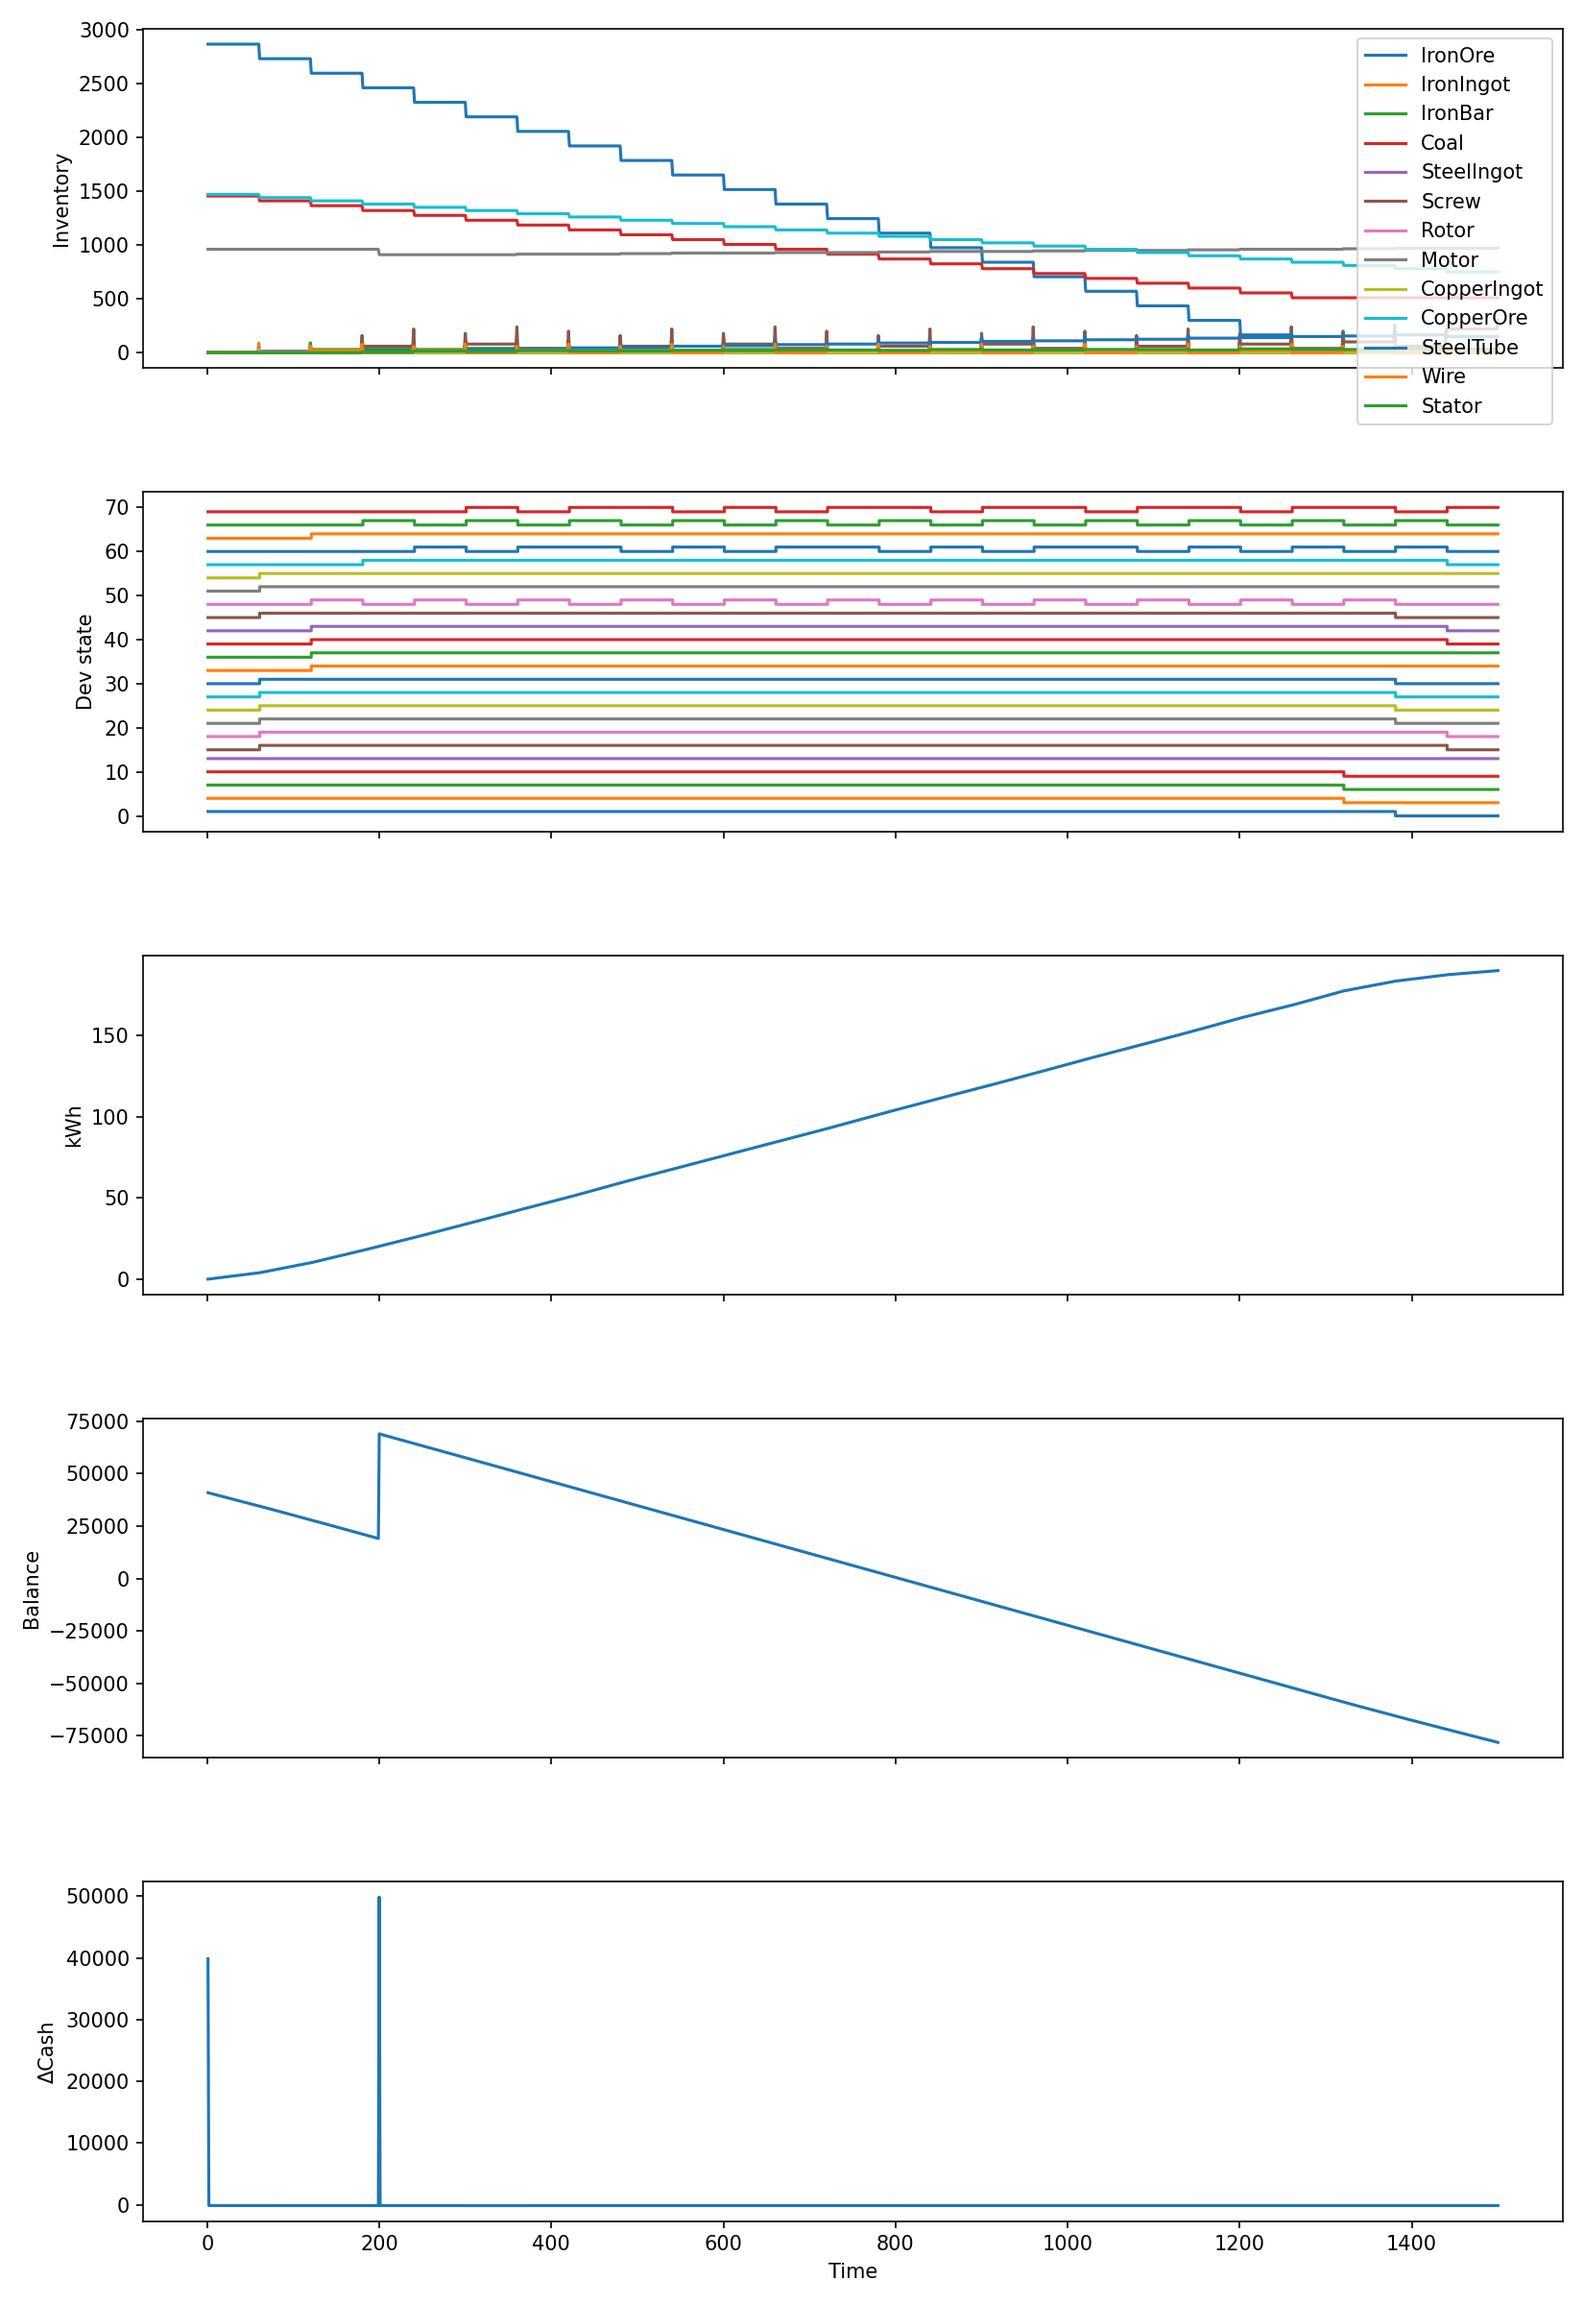
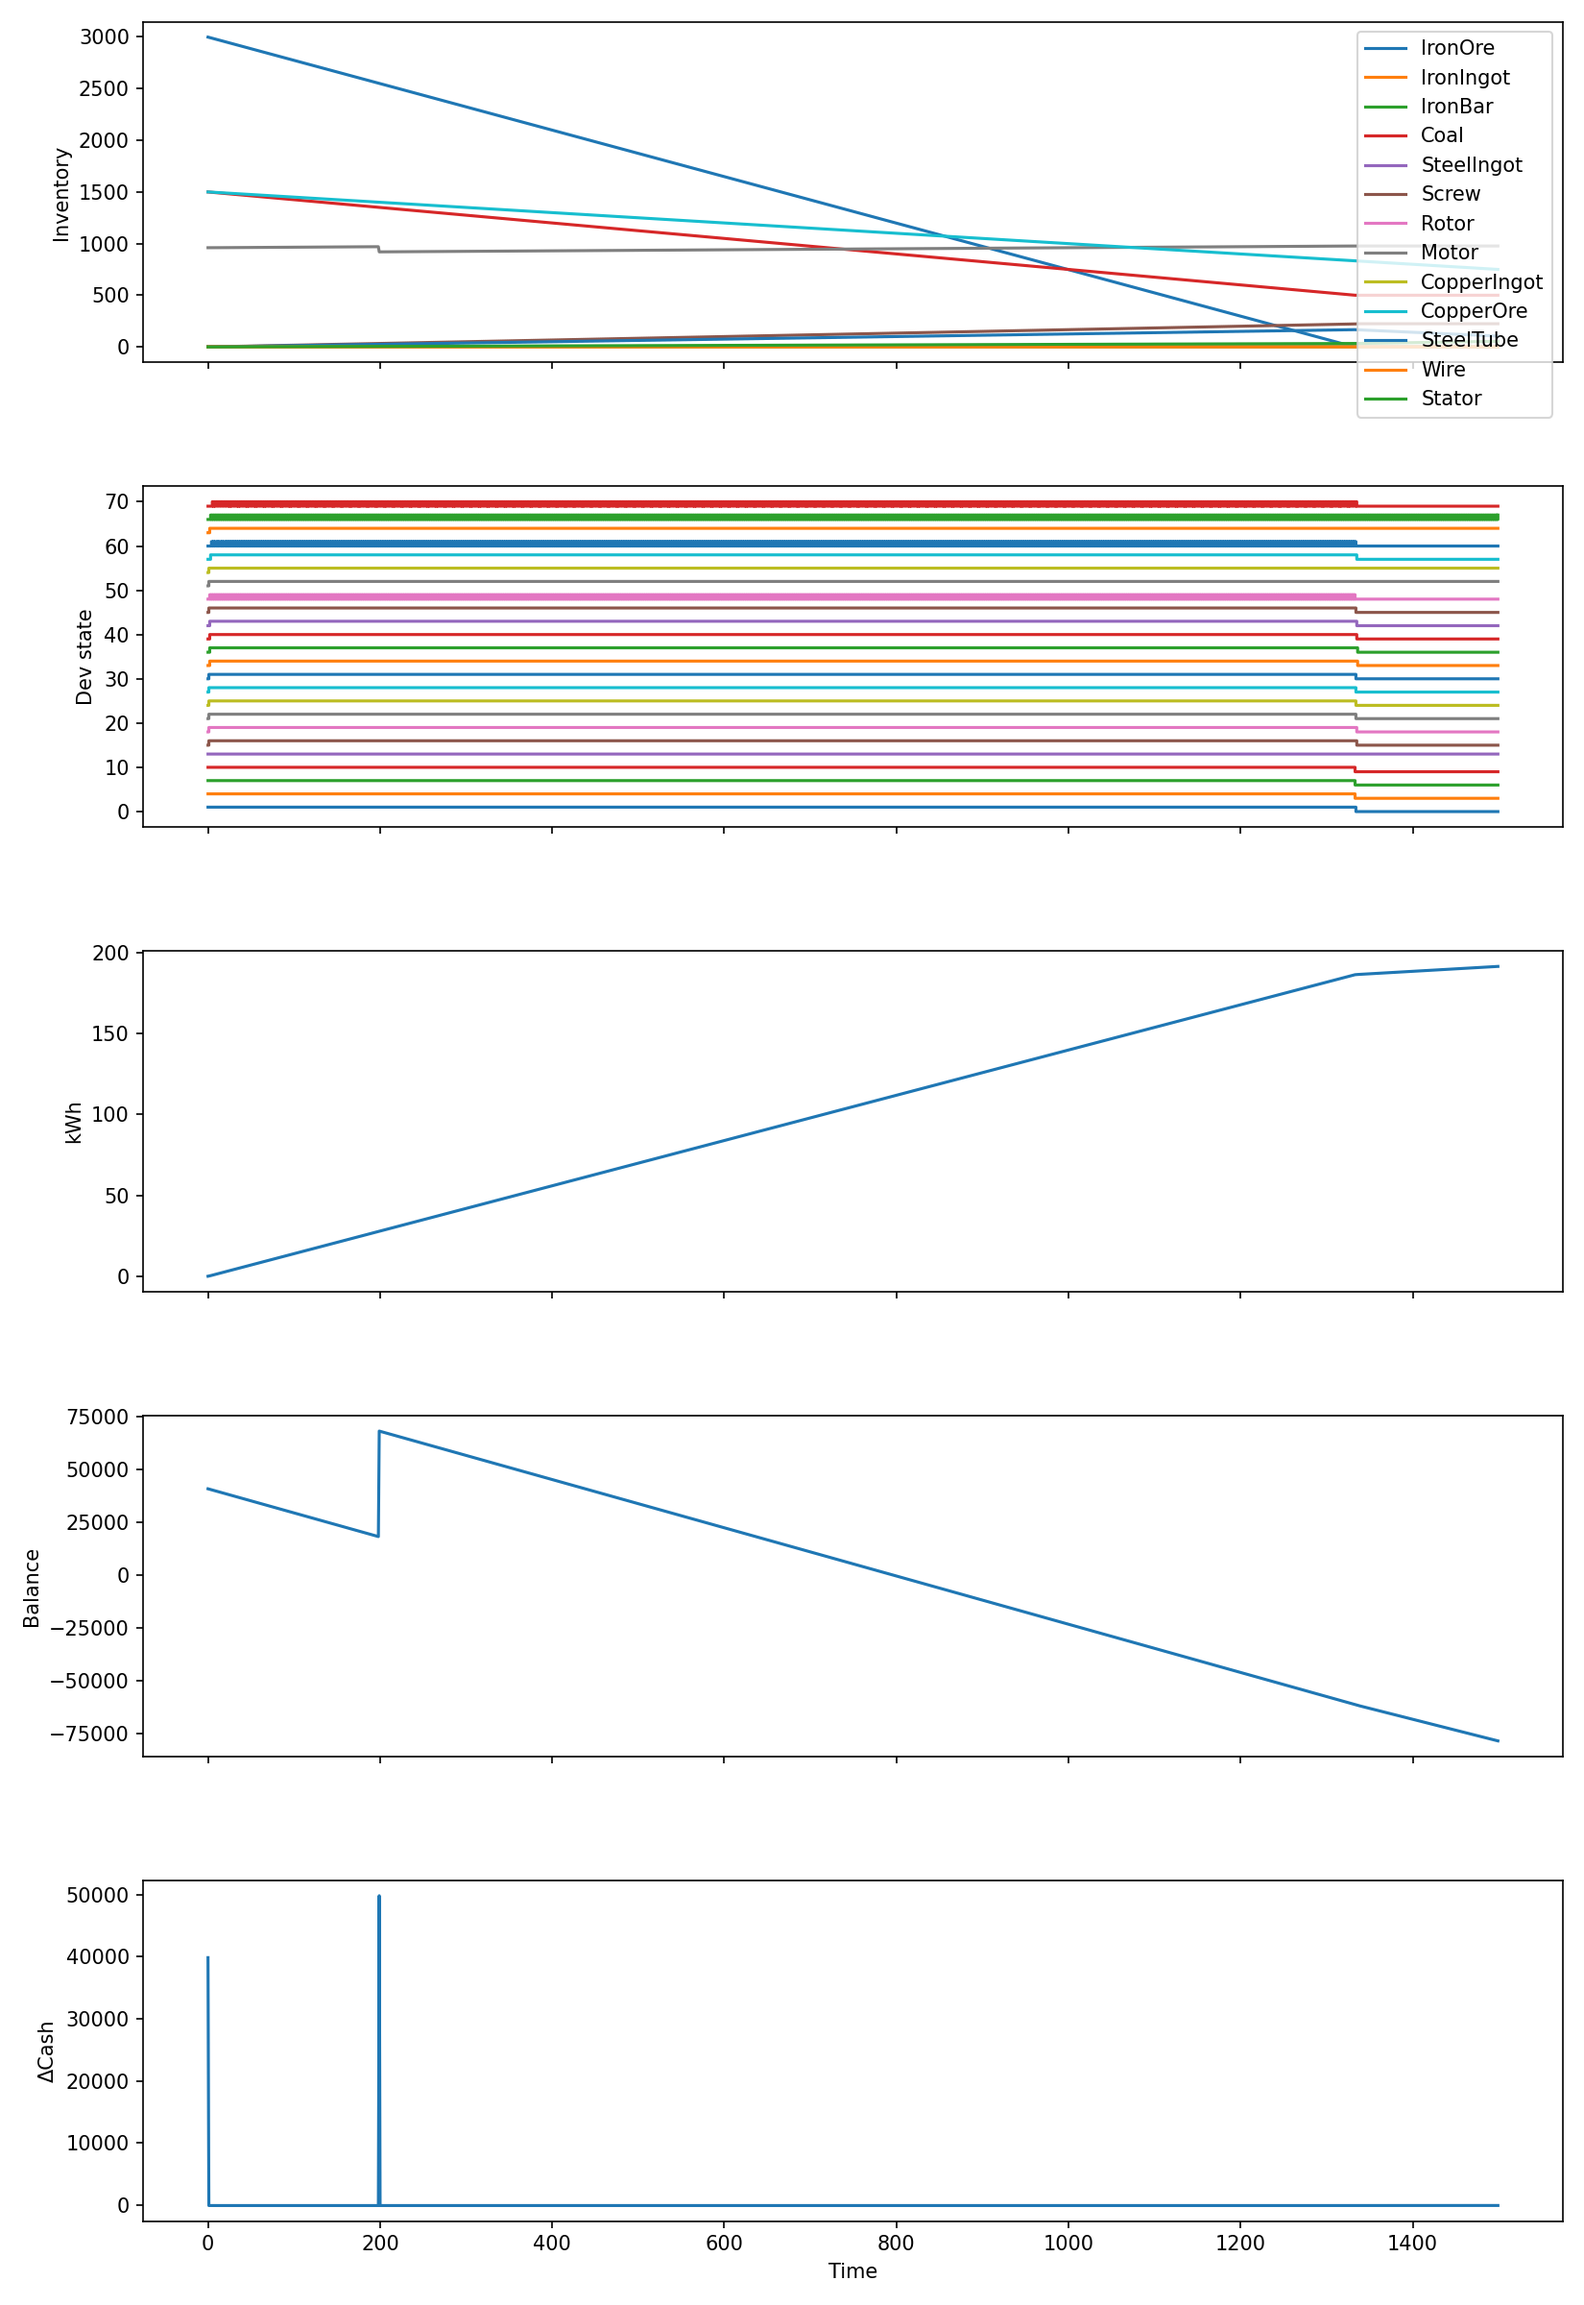
小数量材料消耗

diff --git a/pycode/factory_sim.py b/pycode/factory_sim.py
@@ -10,7 +10,7 @@ from pycode.dev_runtime import DevState
 from pycode.history_recorder import HistoryRecorder
 from pycode.utils import (
     build_dict_of_dev_id_and_dev_runtime_obj,
-    build_dict_of_dev_category_and_rcp_name,
+    build_dict_of_dev_category_and_rcp_name, build_dict_of_recipe_name_and_obj,
 )
 
 
@@ -46,10 +46,10 @@ class FactorySim:
             for dev_id, dev_dict in device_id_and_spec_dict.items()
         }
         # 字典，配方名 -> 配方obj
-        self.recipe_name_and_obj_dict = {
-            rcp_name: Recipe(**rcp_dict)
-            for rcp_name, rcp_dict in recipe_name_and_spec_dict.items()
-        }
+        self.recipe_name_and_obj_dict = build_dict_of_recipe_name_and_obj(
+            recipe_name_and_spec_dict=recipe_name_and_spec_dict,
+            whether_convert_to_one_second_of_cycle_time=False,
+        )
 
         # 运行时Stock管理器
         self.stock_mng = StockManagerRuntime(init_stock_name_and_spec_dict)
@@ -104,50 +104,6 @@ class FactorySim:
             dev_rt.recipe = self.recipe_name_and_obj_dict[act]
             # TODO devruntime里的配方也要改
 
-    def do_schedule(self, action_dict: dict | None):
-        """决定本次step的所有设备的状态"""
-        if self.schedule_mode == "greedy":
-            pass
-        else:
-            self.apply_actions(action_dict)
-
-    # ----- main loop -------------------------------------------------------- --
-    def run_one_step_after_schedule(self):
-        if self.clock == 59:
-            pass
-
-        # 检查能启动的生产，并启动
-        for dev_rt in self.dev_id_and_dev_runtime_dict.values():
-            if dev_rt.can_start(self.stock_mng):
-                dev_rt.start_batch(self.stock_mng)
-
-        self.record_dev_status()
-
-        self.step_energy_kwh_used = 0.0
-        # tick all devices，用 dt 推进
-        for rt in self.dev_id_and_dev_runtime_dict.values():
-            if rt.state is DevState.RUNNING:
-                # 本步消耗 = 功率(kW)×(dt秒 ÷ 3600秒/时)
-                self.step_energy_kwh_used += rt.recipe.power_kw * (self.dt / 3600)
-            rt.tick(self.stock_mng, self.dt)
-        # 全局时钟也推进 dt
-        self.clock += self.dt
-        # 总能耗累加
-        self.total_energy_kwh_used += self.step_energy_kwh_used
-
-    def record_step_status_without_dev(self):
-        h = self.history_recorder
-        h.log_scalar("time", self.clock)
-        h.log_scalar("total_energy", self.total_energy_kwh_used)
-        h.log_scalar("total_balance", self.total_balance)
-        h.log_scalar("step_balance", self.step_balance)
-
-        # 库存向量
-        for name, stock_obj in self.stock_mng.get_items():
-            h.log_vector("stock", name, stock_obj.quantity)
-
-        h.next_step()
-
     def record_dev_status(self):
         h = self.history_recorder
         # 设备运行状态与甘特
@@ -161,8 +117,33 @@ class FactorySim:
                 else None
             )
 
-    # ----- reporting -------------------------------------------------------- --
+    # ----- main loop -------------------------------------------------------- --
+    def record_step_status_without_dev(self):
+        h = self.history_recorder
+        h.log_scalar("time", self.clock)
+        h.log_scalar("total_energy", self.total_energy_kwh_used)
+        h.log_scalar("total_balance", self.total_balance)
+        h.log_scalar("step_balance", self.step_balance)
+
+        # 库存向量
+        for name, stock_obj in self.stock_mng.get_items():
+            h.log_vector("stock", name, stock_obj.quantity)
+
+        h.next_step()
+
     def snapshot(self) -> str:
+        # TODO
+        time_log = f"Time: {self.clock}\n"
+        # dev
+        dev_log = (
+            f""
+            f""
+        )
+        # stock
+        # price
+        # order
+        # energy
+        # money
         sums = ", ".join(
             f"{k}:{material_obj.quantity}"
             for k, material_obj in self.stock_mng.get_items()
@@ -174,6 +155,40 @@ class FactorySim:
         )
         return (f"[t={self.clock:4}s] stock({sums}) | devs({devs}) | "
                 f"energy={self.total_energy_kwh_used:,.2f} kWh")
+
+    def do_schedule(self, action_dict: dict | None):
+        """决定本次step的所有设备的状态"""
+        if self.schedule_mode == "greedy":
+            pass
+        else:
+            self.apply_actions(action_dict)
+
+    # ----- reporting -------------------------------------------------------- --
+    def run_one_step_after_schedule(self):
+        if self.clock == 59:
+            pass
+
+        # 检查能启动的生产，并启动
+        for dev_rt in self.dev_id_and_dev_runtime_dict.values():
+            if dev_rt.can_start(self.stock_mng):
+                dev_rt.start_batch(self.stock_mng)
+
+        # 记录本轮机器状态
+        self.record_dev_status()
+
+        # 计算本步耗电量
+        self.step_energy_kwh_used = 0.0
+        for dev_rt in self.dev_id_and_dev_runtime_dict.values():
+            if dev_rt.state is DevState.RUNNING:
+                # 本步消耗 = 功率(kW)×(dt秒 ÷ 3600秒/时)
+                self.step_energy_kwh_used += dev_rt.recipe.power_kw * (self.dt / 3600)
+
+        # tick all devices，用 dt 推进
+        for dev_rt in self.dev_id_and_dev_runtime_dict.values():
+            dev_rt.tick(self.stock_mng, self.dt)
+
+        # 总能耗累加
+        self.total_energy_kwh_used += self.step_energy_kwh_used
 
     def check_out_money(self):
         # 计算电费
@@ -205,4 +220,6 @@ class FactorySim:
         self.run_one_step_after_schedule()
         self.check_out_money()
         self.record_step_status_without_dev()
+        # 全局时钟推进
+        self.clock += self.dt
         pass

diff --git a/pycode/utils.py b/pycode/utils.py
@@ -6,7 +6,7 @@ from pycode.data_class import Recipe
 from pycode.dev_runtime import DevRuntime
 from ruamel.yaml import YAML
 
-yaml = YAML()
+yaml = YAML(typ="safe")
 
 
 def build_index_dict_by_id_from_list(lst, id_key_name) -> Dict:
@@ -54,3 +54,24 @@ def build_dict_of_dev_id_and_dev_runtime_obj(
 def load_yaml(file_path: Path):
     with file_path.open("r", encoding="utf-8") as file:
         return yaml.load(file)
+
+
+def build_dict_of_recipe_name_and_obj(
+        recipe_name_and_spec_dict,
+        whether_convert_to_one_second_of_cycle_time: bool
+):
+    rst = {}
+    for rcp_name, rcp_dict in recipe_name_and_spec_dict.items():
+        rcp_obj = Recipe(**rcp_dict)
+        if whether_convert_to_one_second_of_cycle_time:
+            c_time = rcp_obj.cycle_time
+            divide_dict_values_by(c_time, rcp_obj.inputs)
+            divide_dict_values_by(c_time, rcp_obj.outputs)
+            rcp_obj.cycle_time = 1
+        rst[rcp_name] = rcp_obj
+    return rst
+
+
+def divide_dict_values_by(x, dic: dict):
+    for k, v in dic.items():
+        dic[k] = v / x

diff --git a/pycode/data_class.py b/pycode/data_class.py
@@ -12,7 +12,7 @@ class Device:
     downstream: List[str]
 
 
-@dataclass(frozen=True)
+@dataclass
 class Recipe:
     name: str
     device_category: str  # what kind of device executes it
